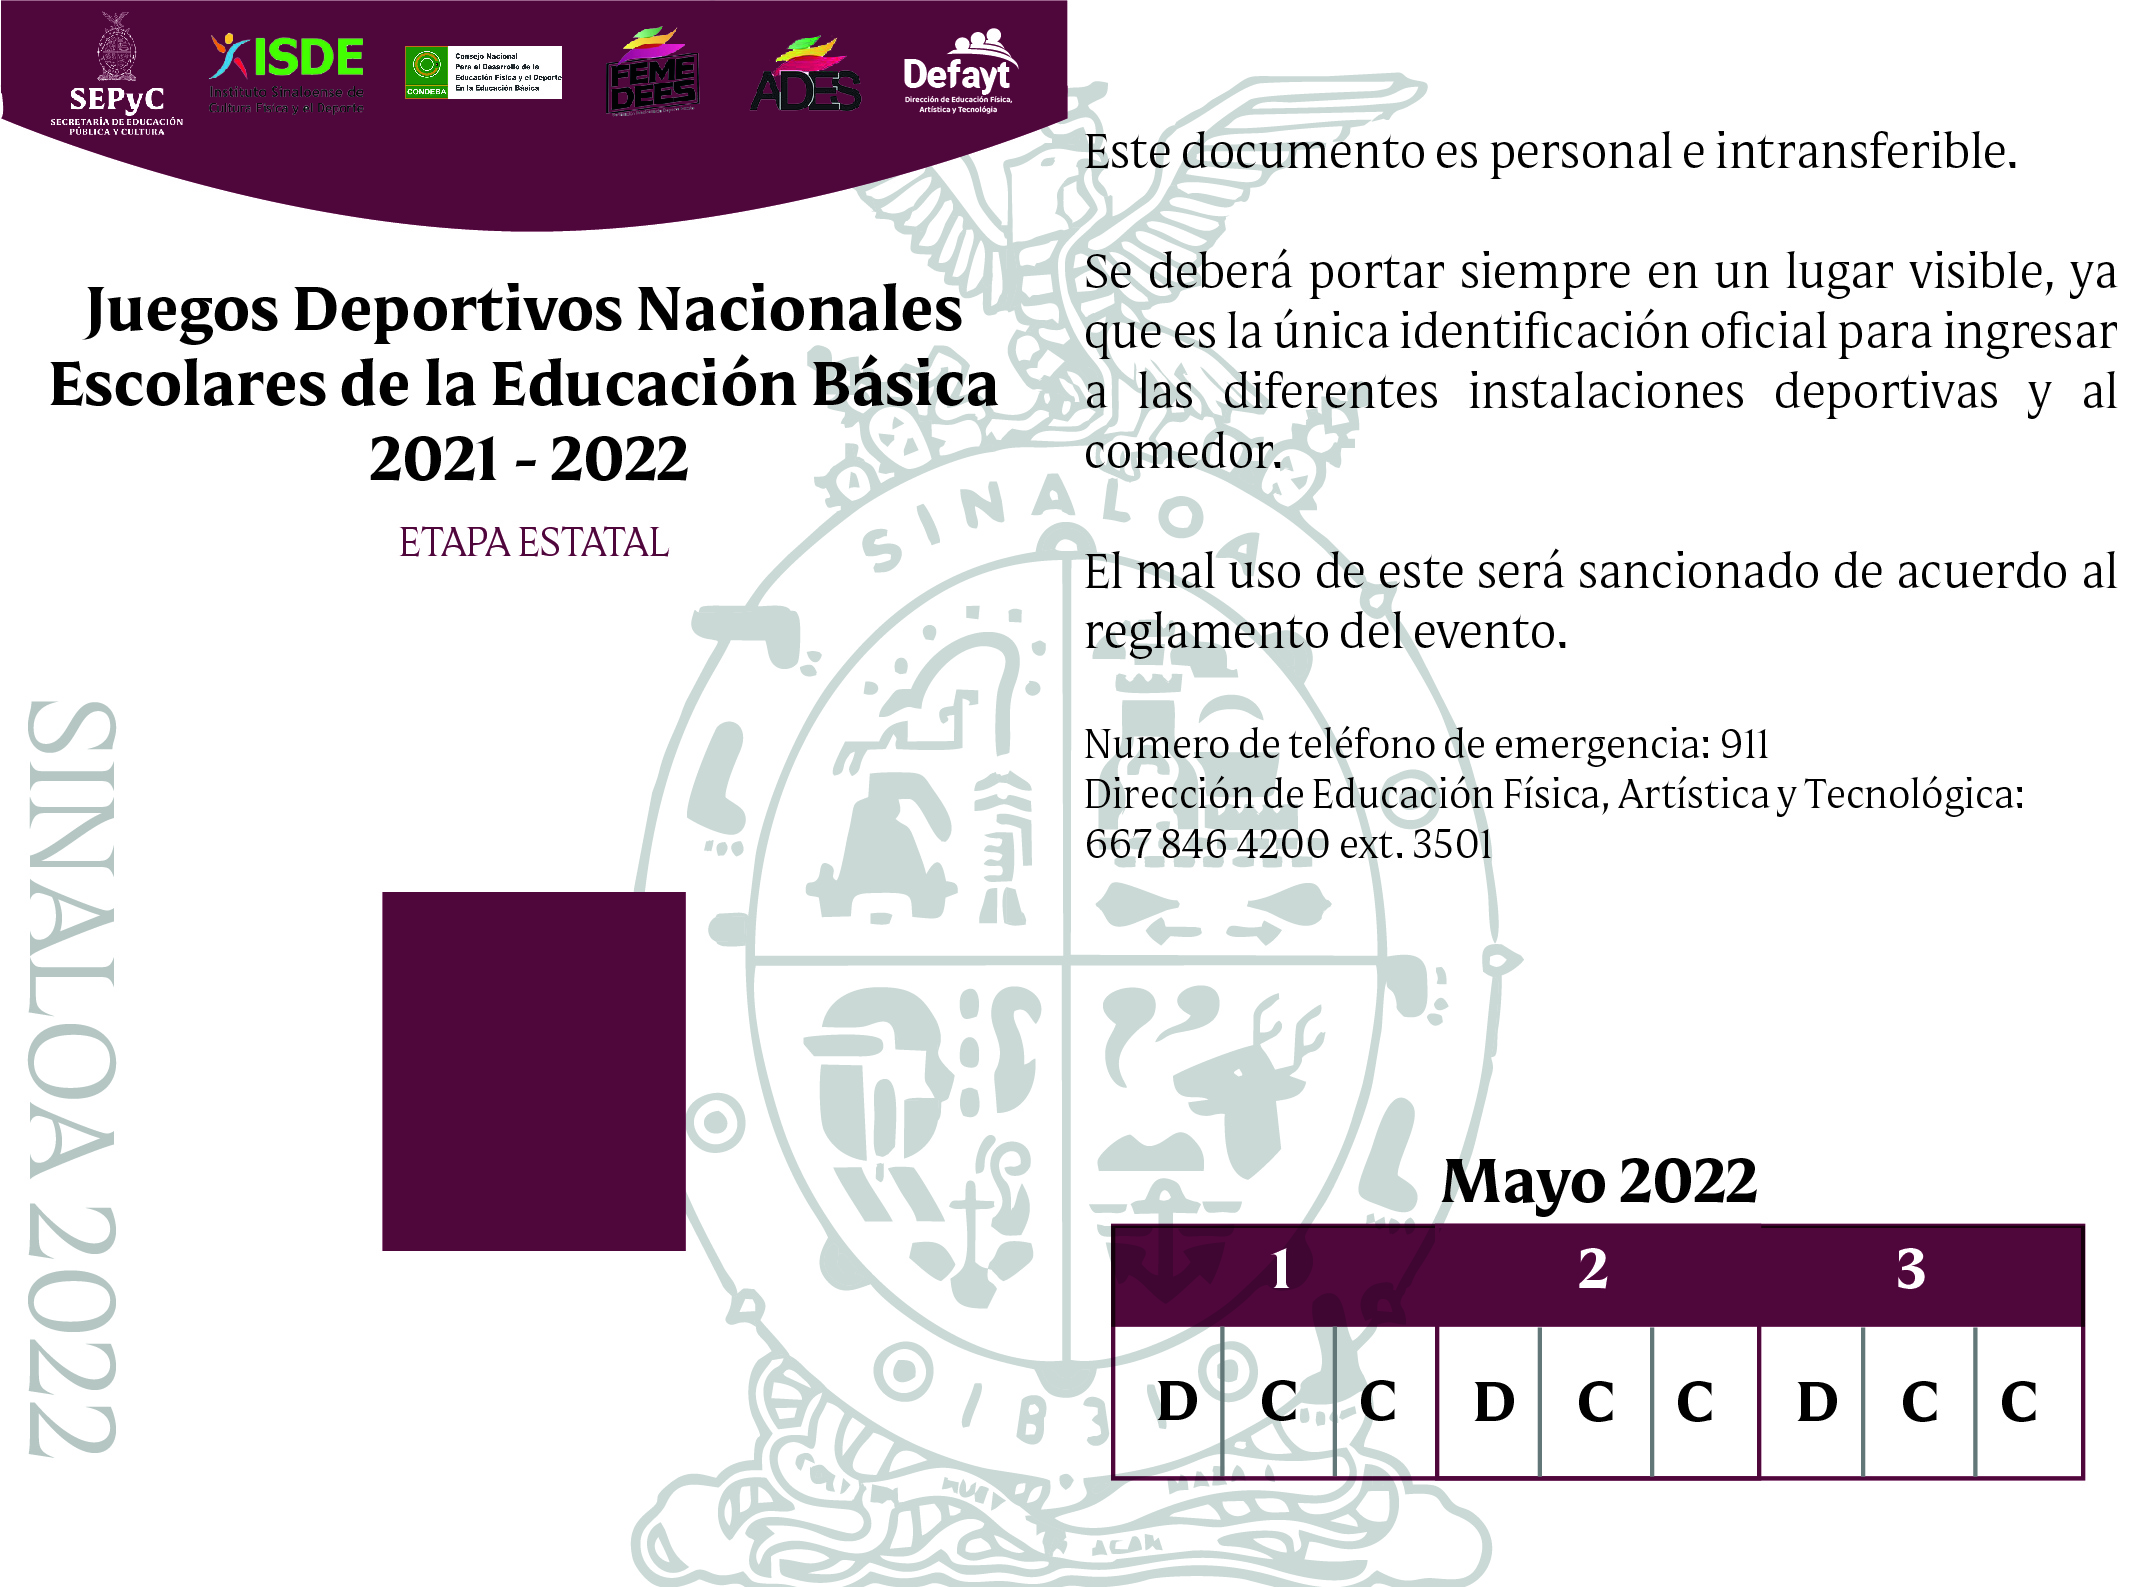
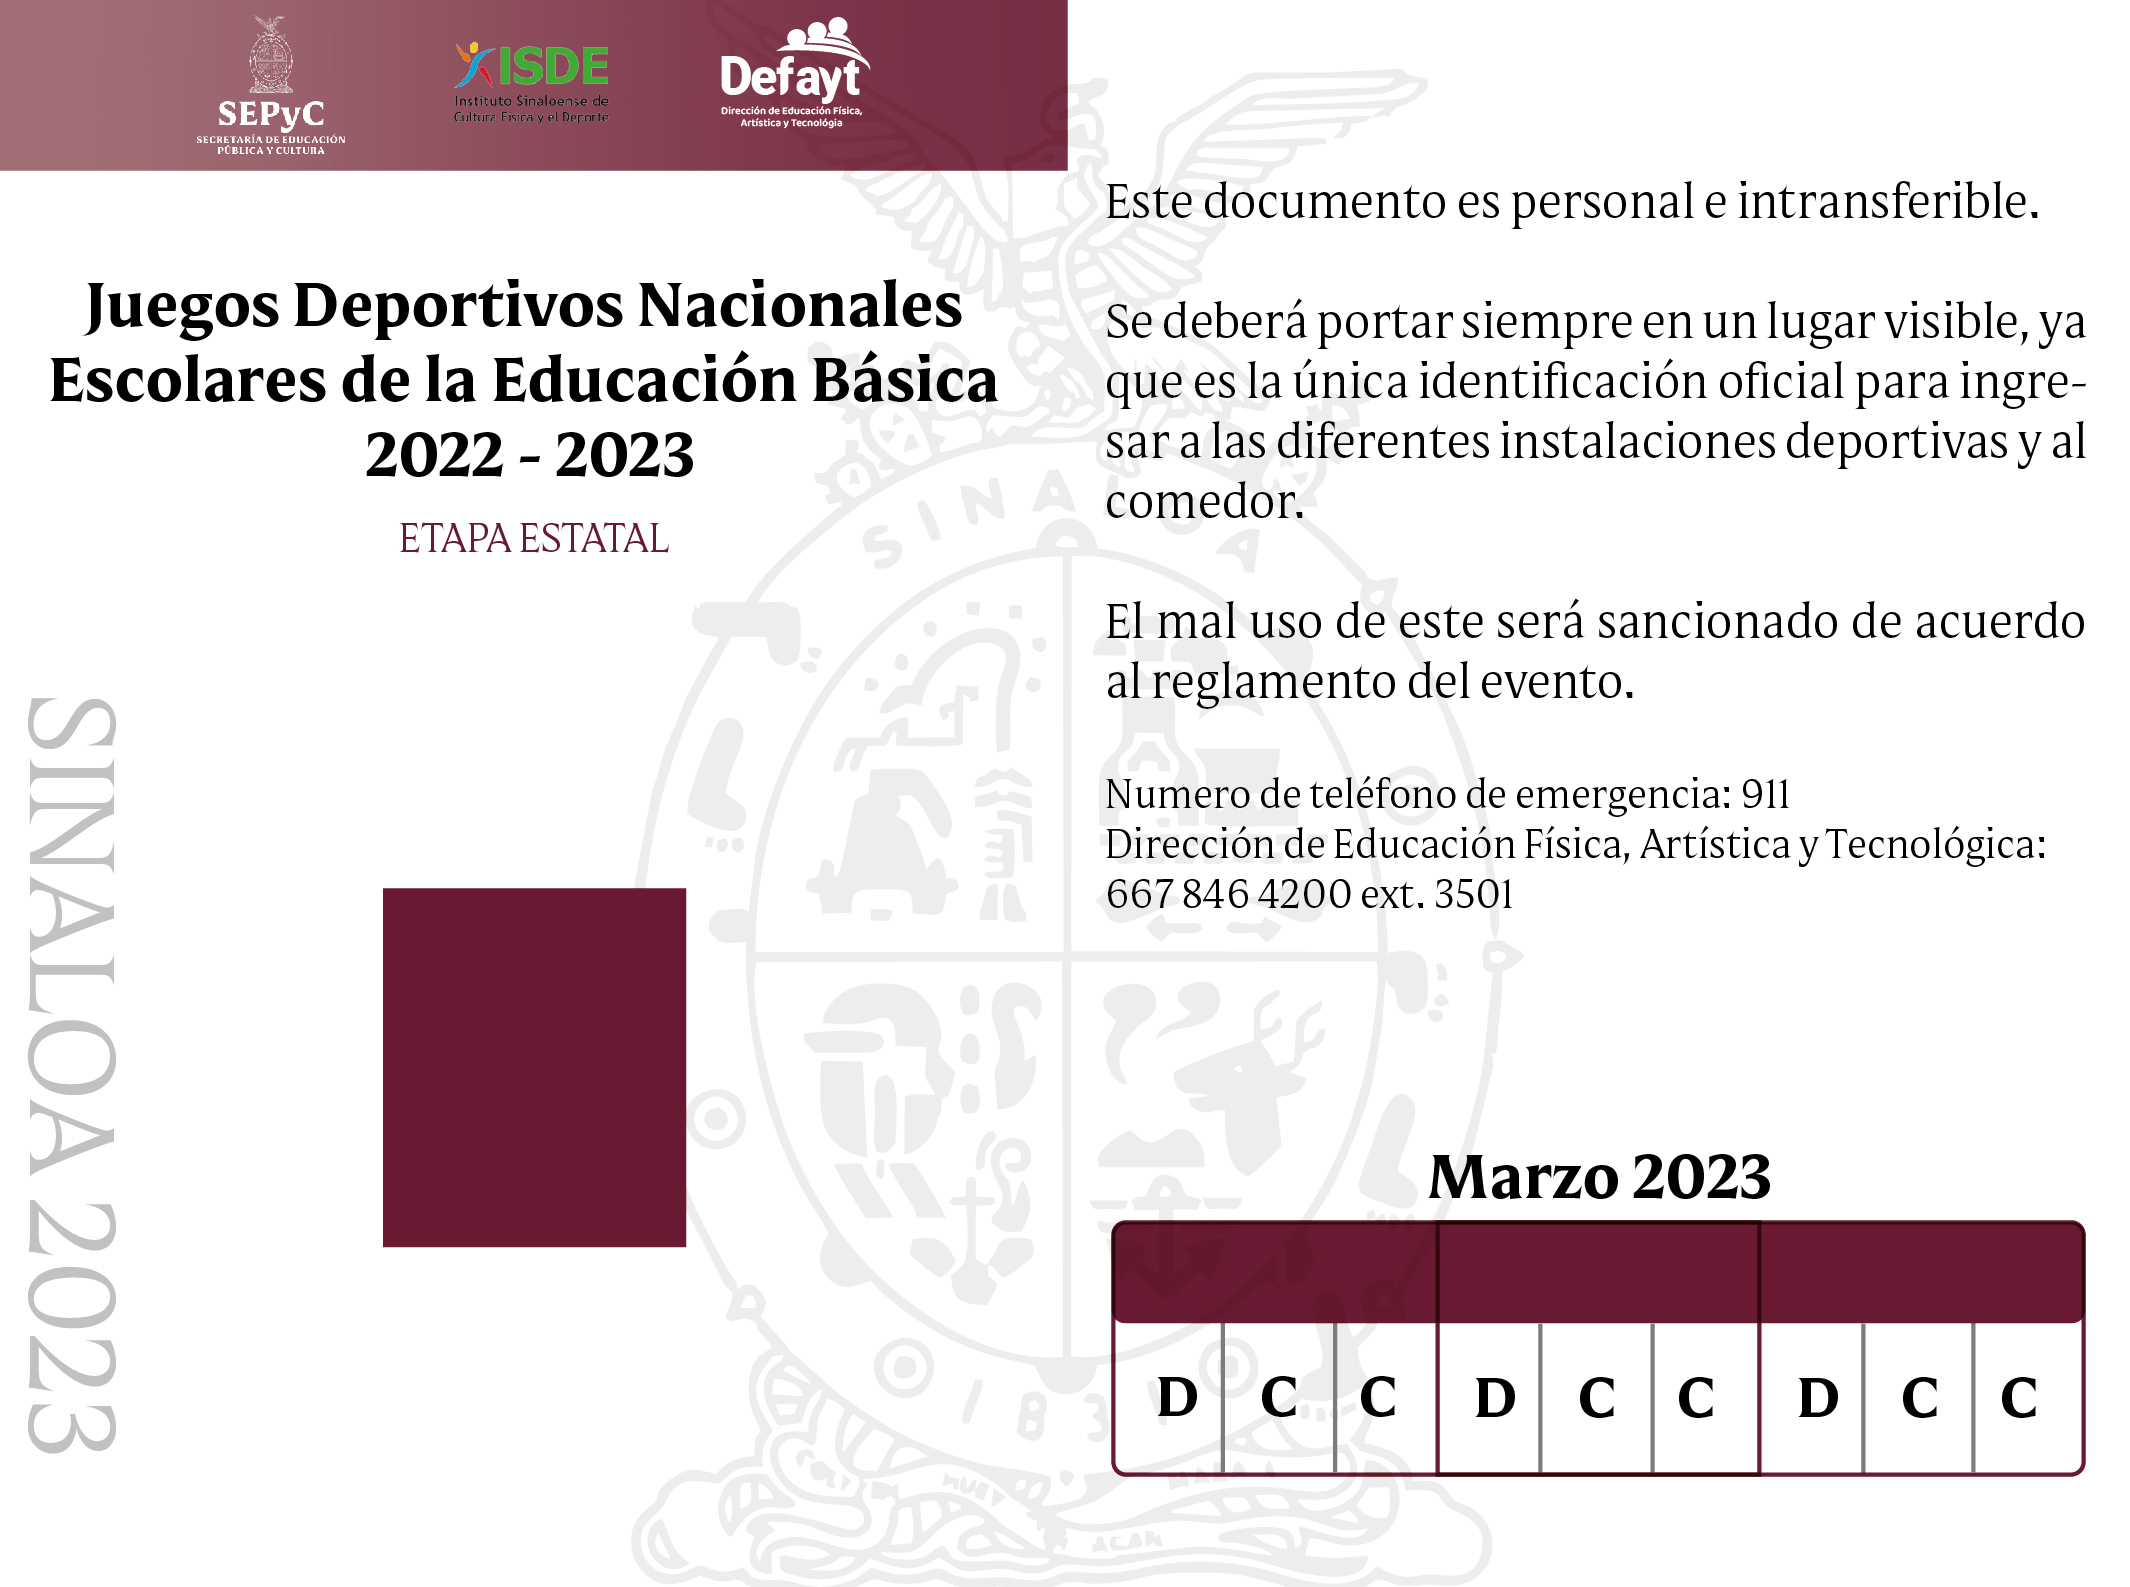
[CHANGE] Cambio de imagen del gafete

diff --git a/certificadopdf.php b/certificadopdf.php
@@ -149,7 +149,7 @@ $mpdf->defaultfooterline = 0;
 $mpdf->SetDisplayMode('fullpage');
 $mpdf->SetHeader('
 <div id="inner">
-    <img src="imagenes/banner.png" width="100%">
+    <img src="imagenes/Cintillo.jpg" width="100%">
     <h2>Juegos Deportivos Escolares de la Educación Básica '.$ciclo.'</h2>
     <h3>'.$deporte.'</h3>				
 </div>');
